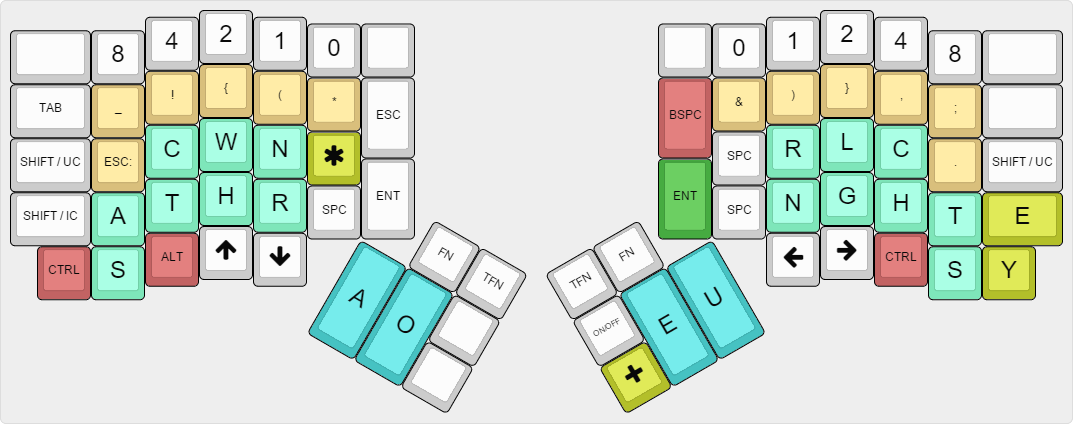
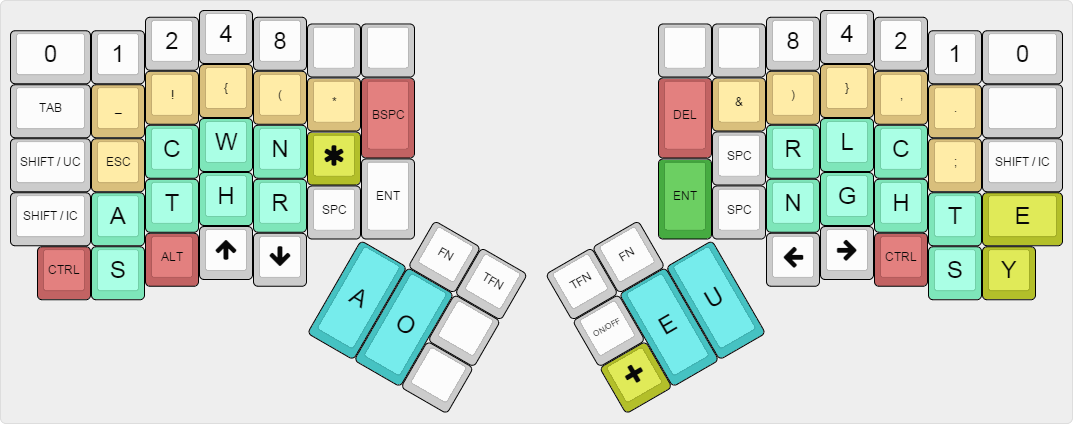
C++ operators update + new layout for numbers

diff --git a/keyboard/ergodox_ez/keymaps/fromtonrouge/lookup_tables/user_tables.h b/keyboard/ergodox_ez/keymaps/fromtonrouge/lookup_tables/user_tables.h
@@ -7,9 +7,9 @@
 const uint16_t PROGMEM g_left_user_symbols_table[64][MAX_SYMBOLS] =
 {
     NO_ENTRY,                               // [0]
-    _S2(KC_ESC, _COLN),                     // [1]      USRL_0
+    _S1(KC_ESC),                            // [1]      USRL_0
     _S1(_UNDS),                             // [2]      USRL_1
-    NO_ENTRY,                               // [3]
+    _S2(KC_ESC, _COLN),                     // [3]      USRL_0|USRL_1
     _S1(_EXLM),                             // [4]      USRL_2
     NO_ENTRY,                               // [5]
     _S1(_PLUS),                             // [6]      USRL_1|USRL_2
@@ -18,7 +18,7 @@ const uint16_t PROGMEM g_left_user_symbols_table[64][MAX_SYMBOLS] =
     NO_ENTRY,                               // [9]
     _S1(_MINS),                             // [10]     USRL_1|USRL_3
     NO_ENTRY,                               // [11]
-    _S1(_LESS),                             // [12]
+    _S1(_LESS),                             // [12]     USRL_2|USRL_3
     NO_ENTRY,                               // [13]
     _S2(_PLUS, _PLUS),                      // [14]     USRL_1|USRL_2|USRL_3
     NO_ENTRY,                               // [15]
@@ -86,19 +86,19 @@ const uint16_t PROGMEM g_right_user_symbols_table[64][MAX_SYMBOLS] =
     NO_ENTRY,                               // [9]
     NO_ENTRY,                               // [10]
     NO_ENTRY,                               // [11]
-    _S1(_GRTR),                             // [12]
+    _S1(_GRTR),                             // [12]     USRR_2|USRR_3
     NO_ENTRY,                               // [13]
-    _S2(_MINS, _GRTR),                      // [14]
+    _S2(_MINS, _GRTR),                      // [14]     USRR_1|USRR_2|USRR_3
     NO_ENTRY,                               // [15]
-    _S1(_SCLN),                             // [16]     USRR_4
+    _S1(_DOT),                              // [16]     USRR_4
     NO_ENTRY,                               // [17]
-    _S2(_RPRN, _SCLN),                      // [18]
+    NO_ENTRY,                               // [18]
     NO_ENTRY,                               // [19]
-    _S2(_RCBR, _SCLN),                      // [20]
+    NO_ENTRY,                               // [20]
     NO_ENTRY,                               // [21]
-    _S2(_RBRC, _SCLN),                      // [22]     USRR_1|USRR_2|USRR_4
+    NO_ENTRY,                               // [22]
     NO_ENTRY,                               // [23]
-    _S1(_COLN),                             // [24]     USRR_3|USRR_4
+    NO_ENTRY,                               // [24]
     NO_ENTRY,                               // [25]
     NO_ENTRY,                               // [26]
     NO_ENTRY,                               // [27]
@@ -106,13 +106,13 @@ const uint16_t PROGMEM g_right_user_symbols_table[64][MAX_SYMBOLS] =
     NO_ENTRY,                               // [29]
     NO_ENTRY,                               // [30]
     NO_ENTRY,                               // [31]
-    _S1(_DOT),                              // [32]     USRR_5
+    _S1(_SCLN),                             // [32]     USRR_5
     NO_ENTRY,                               // [33]
-    NO_ENTRY,                               // [34]
+    _S2(_RPRN, _SCLN),                      // [34]     USRR_1|USRR_5
     NO_ENTRY,                               // [35]
-    NO_ENTRY,                               // [36]
+    _S2(_RCBR, _SCLN),                      // [36]     USRR_2|USRR_5
     NO_ENTRY,                               // [37]
-    NO_ENTRY,                               // [38]
+    _S2(_RBRC, _SCLN),                      // [38]     USRR_1|USRR_2|USRR_5
     NO_ENTRY,                               // [39]
     NO_ENTRY,                               // [40]
     NO_ENTRY,                               // [41]
@@ -122,7 +122,7 @@ const uint16_t PROGMEM g_right_user_symbols_table[64][MAX_SYMBOLS] =
     NO_ENTRY,                               // [45]
     NO_ENTRY,                               // [46]
     NO_ENTRY,                               // [47]
-    NO_ENTRY,                               // [48]
+    _S1(_COLN),                             // [48]     USRR_4|USRR_5
     NO_ENTRY,                               // [49]
     NO_ENTRY,                               // [50]
     NO_ENTRY,                               // [51]

diff --git a/keyboard/ergodox_ez/keymaps/fromtonrouge/keymap.c b/keyboard/ergodox_ez/keymaps/fromtonrouge/keymap.c
@@ -88,8 +88,8 @@ enum key_family
 
 // 2 bits for case control keys (upper case, initial case)
 #define OFFSET_CASE_CONTROLS 27
-#define C_UP   (0 | (FAMILY_CASE_CONTROLS << 4) | STENO_BIT)
-#define C_IUP  (1 | (FAMILY_CASE_CONTROLS << 4) | STENO_BIT)
+#define C_UC   (0 | (FAMILY_CASE_CONTROLS << 4) | STENO_BIT)
+#define C_IC  (1 | (FAMILY_CASE_CONTROLS << 4) | STENO_BIT)
 
 // 6 bits for left user symbols
 #define OFFSET_LEFT_USER_SYMBOLS 0
@@ -239,18 +239,18 @@ const uint32_t PROGMEM g_steno_keymap[2][MATRIX_ROWS][MATRIX_COLS] = {
 // BASE STENO MAP
 KEYMAP(
                 // Left hand
-                0,      NL_B3,      NL_B2,      NL_B1,      NL_B0,      NL_N0,        0,
+                NL_N0,  NL_B0,      NL_B1,      NL_B2,      NL_B3,      0,            0,
                 S_TAB,  USRL_1,     USRL_2,     USRL_3,     USRL_4,     USRL_5,       0,
-                C_UP,   USRL_0,     L_C,        L_W,        L_N,        SC_STAR,
-                C_IUP,  L_A,        L_T,        L_H,        L_R,        S_SPC,        S_ENT,
+                C_UC,   USRL_0,     L_C,        L_W,        L_N,        SC_STAR,
+                C_IC,   L_A,        L_T,        L_H,        L_R,        S_SPC,        S_ENT,
                 0,      L_S,        0,          0,          0,
                                                                                            0,       0,
                                                                                                     0,
                                                                                     T_A,   T_O,     0,
                 // Right hand
-                            0,     NR_N0,      NR_B0,      NR_B1,      NR_B2,      NR_B3,      0,
+                            0,     0,          NR_B3,      NR_B2,      NR_B1,      NR_B0,      NR_N0,
                             0,     USRR_0,     USRR_1,     USRR_2,     USRR_3,     USRR_4,     0,
-                                   S_SPC,      R_R,        R_L,        R_C,        USRR_5,     C_UP,
+                                   S_SPC,      R_R,        R_L,        R_C,        USRR_5,     C_IC,
                             0,     S_SPC,      R_N,        R_G,        R_H,        R_T,        RP_E,
                                                0,          0,          0,          R_S,        RP_Y,
                 0,          0,
@@ -258,7 +258,7 @@ KEYMAP(
                 SC_PLUS,    T_E, T_U
 ),
 
-// SHIFT STENO MAP (when C_IUP or C_UP are pressed)
+// SHIFT STENO MAP (when C_IC or C_UC are pressed)
 KEYMAP(
                 // Left hand
                 0,      0,         0,          0,          0,          0,           0,
@@ -312,7 +312,7 @@ const uint16_t PROGMEM keymaps[][MATRIX_ROWS][MATRIX_COLS] = {
 [LAYER_STENO] = KEYMAP(
         // left hand
         ST_ON,        ST_ON,      ST_ON,      ST_ON,      ST_ON,      ST_ON,        ST_ON,
-        ST_ON,        ST_ON,      ST_ON,      ST_ON,      ST_ON,      ST_ON,        KC_TRNS,
+        ST_ON,        ST_ON,      ST_ON,      ST_ON,      ST_ON,      ST_ON,        KC_BSPC,
         ST_ON,        ST_ON,      ST_ON,      ST_ON,      ST_ON,      ST_ON,   
         ST_ON,        ST_ON,      ST_ON,      ST_ON,      ST_ON,      ST_ON,        ST_ON,
         KC_TRNS,      ST_ON,      KC_TRNS,    KC_TRNS,    KC_TRNS,
@@ -321,7 +321,7 @@ const uint16_t PROGMEM keymaps[][MATRIX_ROWS][MATRIX_COLS] = {
                                                                             ST_ON,      ST_ON,      KC_TRNS,
         // right hand
                     ST_ON,          ST_ON,      ST_ON,      ST_ON,      ST_ON,      ST_ON,      ST_ON,
-                    KC_TRNS,        ST_ON,      ST_ON,      ST_ON,      ST_ON,      ST_ON,      ST_ON,
+                    KC_DEL,         ST_ON,      ST_ON,      ST_ON,      ST_ON,      ST_ON,      ST_ON,
                                     ST_ON,      ST_ON,      ST_ON,      ST_ON,      ST_ON,      ST_ON,   
                     KC_TRNS,        ST_ON,      ST_ON,      ST_ON,      ST_ON,      ST_ON,      ST_ON,   
                                                 KC_TRNS,    KC_TRNS,    KC_RCTL,    ST_ON,      ST_ON,

diff --git a/keyboard/ergodox_ez/keymaps/fromtonrouge/readme.md b/keyboard/ergodox_ez/keymaps/fromtonrouge/readme.md
@@ -22,7 +22,7 @@ A stroke is generated by evaluating the following rules in this order :
 	
 	Blabla (TODO)
 
-In this custom layout you can find some C++ operators and punctuations and also a specific Vim key (ESC:)
+In this custom layout you can find some C++ operators and punctuations.
 
 Numbers are binary numbers (experimental) : you can stroke 2 numbers at the same time (from 0 to 15 for each hand)
 
@@ -406,25 +406,37 @@ Numbers are binary numbers (experimental) : you can stroke 2 numbers at the same
     EY              =       E|Y                 [3]
     Y               =       Y                   [2]
 
-### Lookup table for left user symbols (C++ symbols in this example)
+### Lookup table for left user symbols (C++ operators in this example)
 
-	TODO
+    ESC                 =       0                   [1]   
+    _                   =       1                   [2]   
+    ESC:                =       0|1                 [3]   
+    !                   =       2                   [4]
+    +                   =       1|2                 [6]
+    {                   =       3                   [8]
+    -                   =       1|3                 [10]
+    <                   =       2|3                 [12]
+    ++                  =       1|2|3               [14]
+    (                   =       4                   [16]
+    [                   =       3|4                 [24]
+    --                  =       1|3|4               [26]
+    <<                  =       2|3|4               [28]
+    *                   =       5                   [32]
 
-    USR0               =       :                   [1]
-    USR1               =       _                   [2]
-    USR2               =       !                   [4]
-    USR3               =       {                   [8]
-    USR4               =       (                   [16]
-    USR5               =       *                   [32]
+### Lookup table for right user symbols (C++ operators in this example)
 
-
-### Lookup table for right user symbols (C++ symbols in this example)
-
-	TODO
-
-    USR0               =       &                   [1]
-    USR1               =       )                   [2]
-    USR2               =       }                   [4]
-    USR3               =       ,                   [8]
-    USR4               =       ;                   [16]
-    USR5               =       .                   [32]
+    &                   =       0                   [1]   
+    )                   =       1                   [2]   
+    }                   =       2                   [4]   
+    ]                   =       1|2                 [6]   
+    ,                   =       3                   [8]   
+    >                   =       2|3                 [12]   
+    ->                  =       1|2|3               [14]
+    .                   =       4                   [16]
+    >>                  =       2|3|4               [28]
+    ;                   =       5                   [32]
+    );                  =       1|5                 [34]
+    };                  =       2|5                 [36]
+    ];                  =       1|2|5               [38]
+    :                   =       4|5                 [48]
+    ::                  =       3|4|5               [56]
